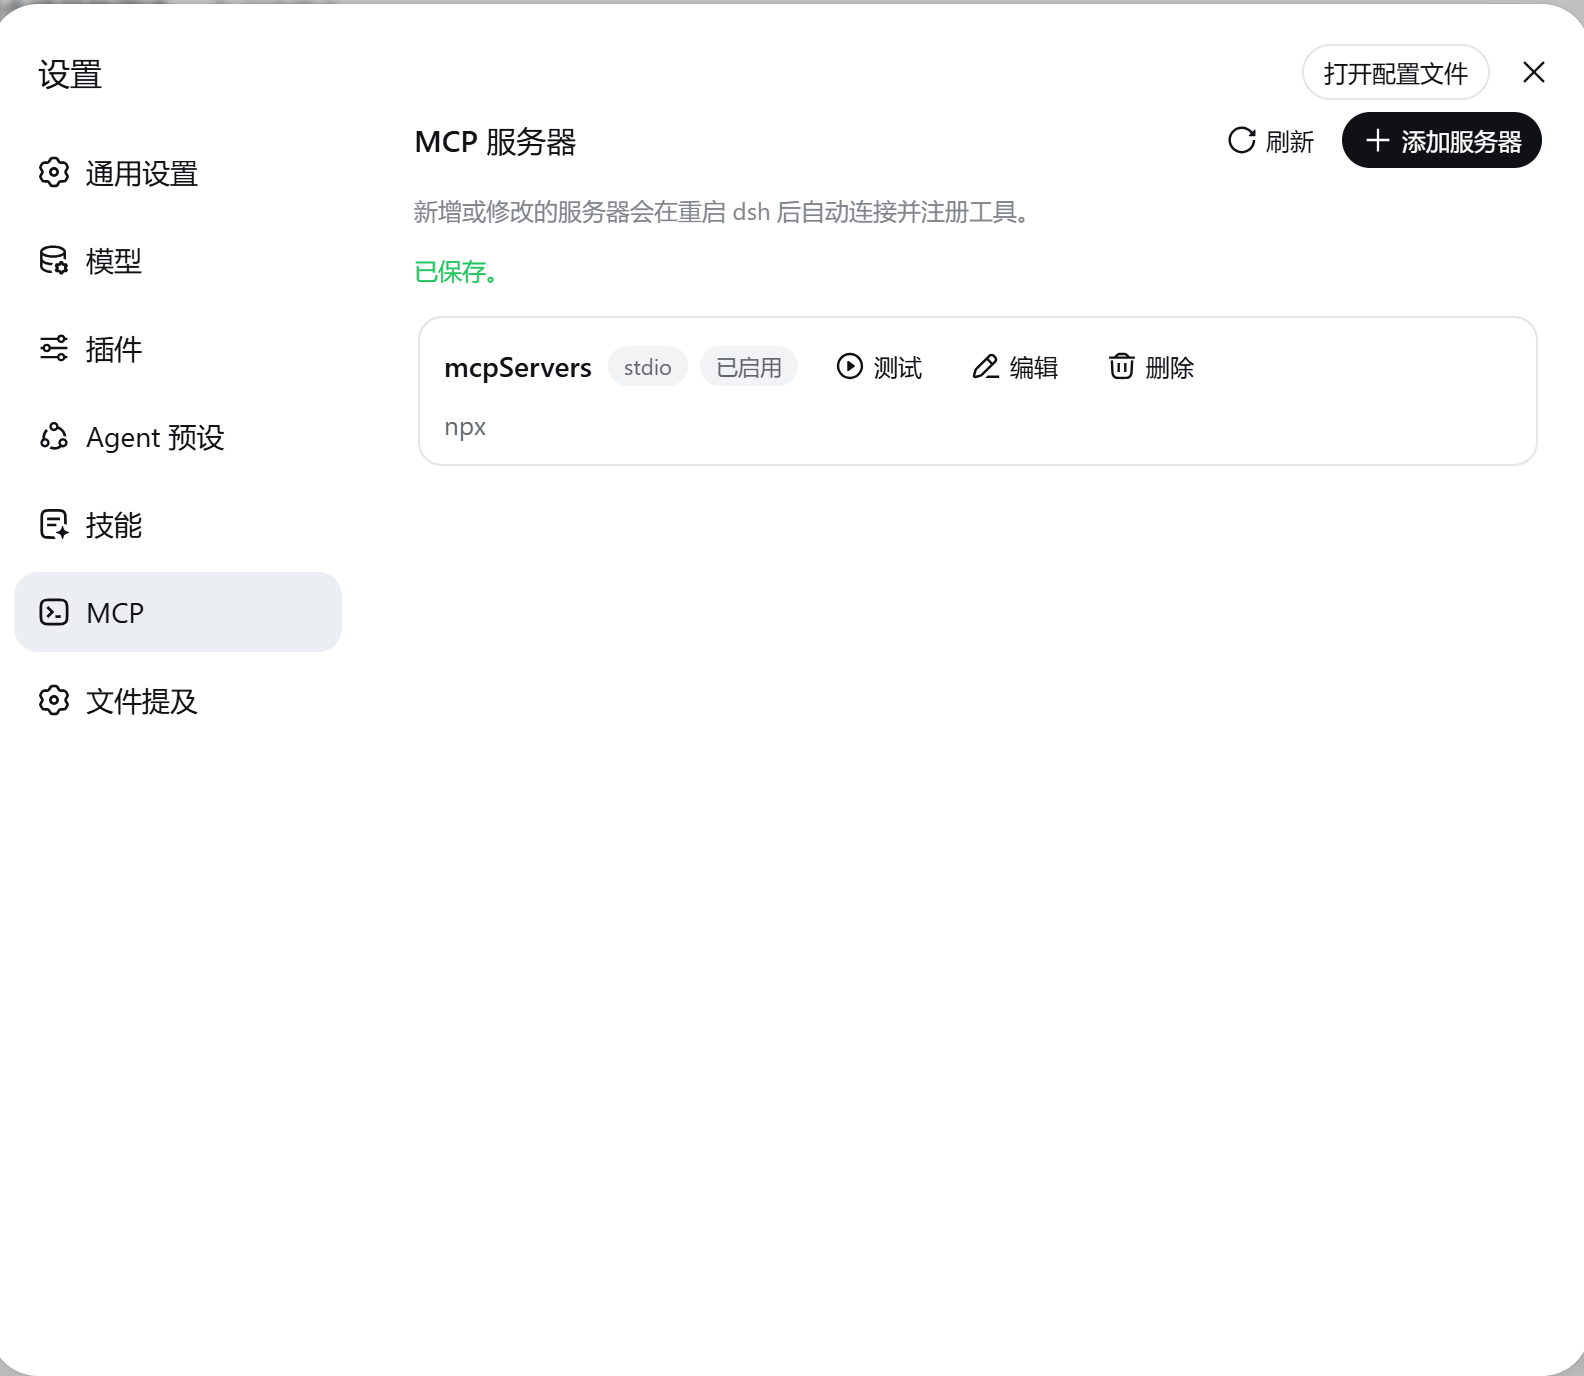
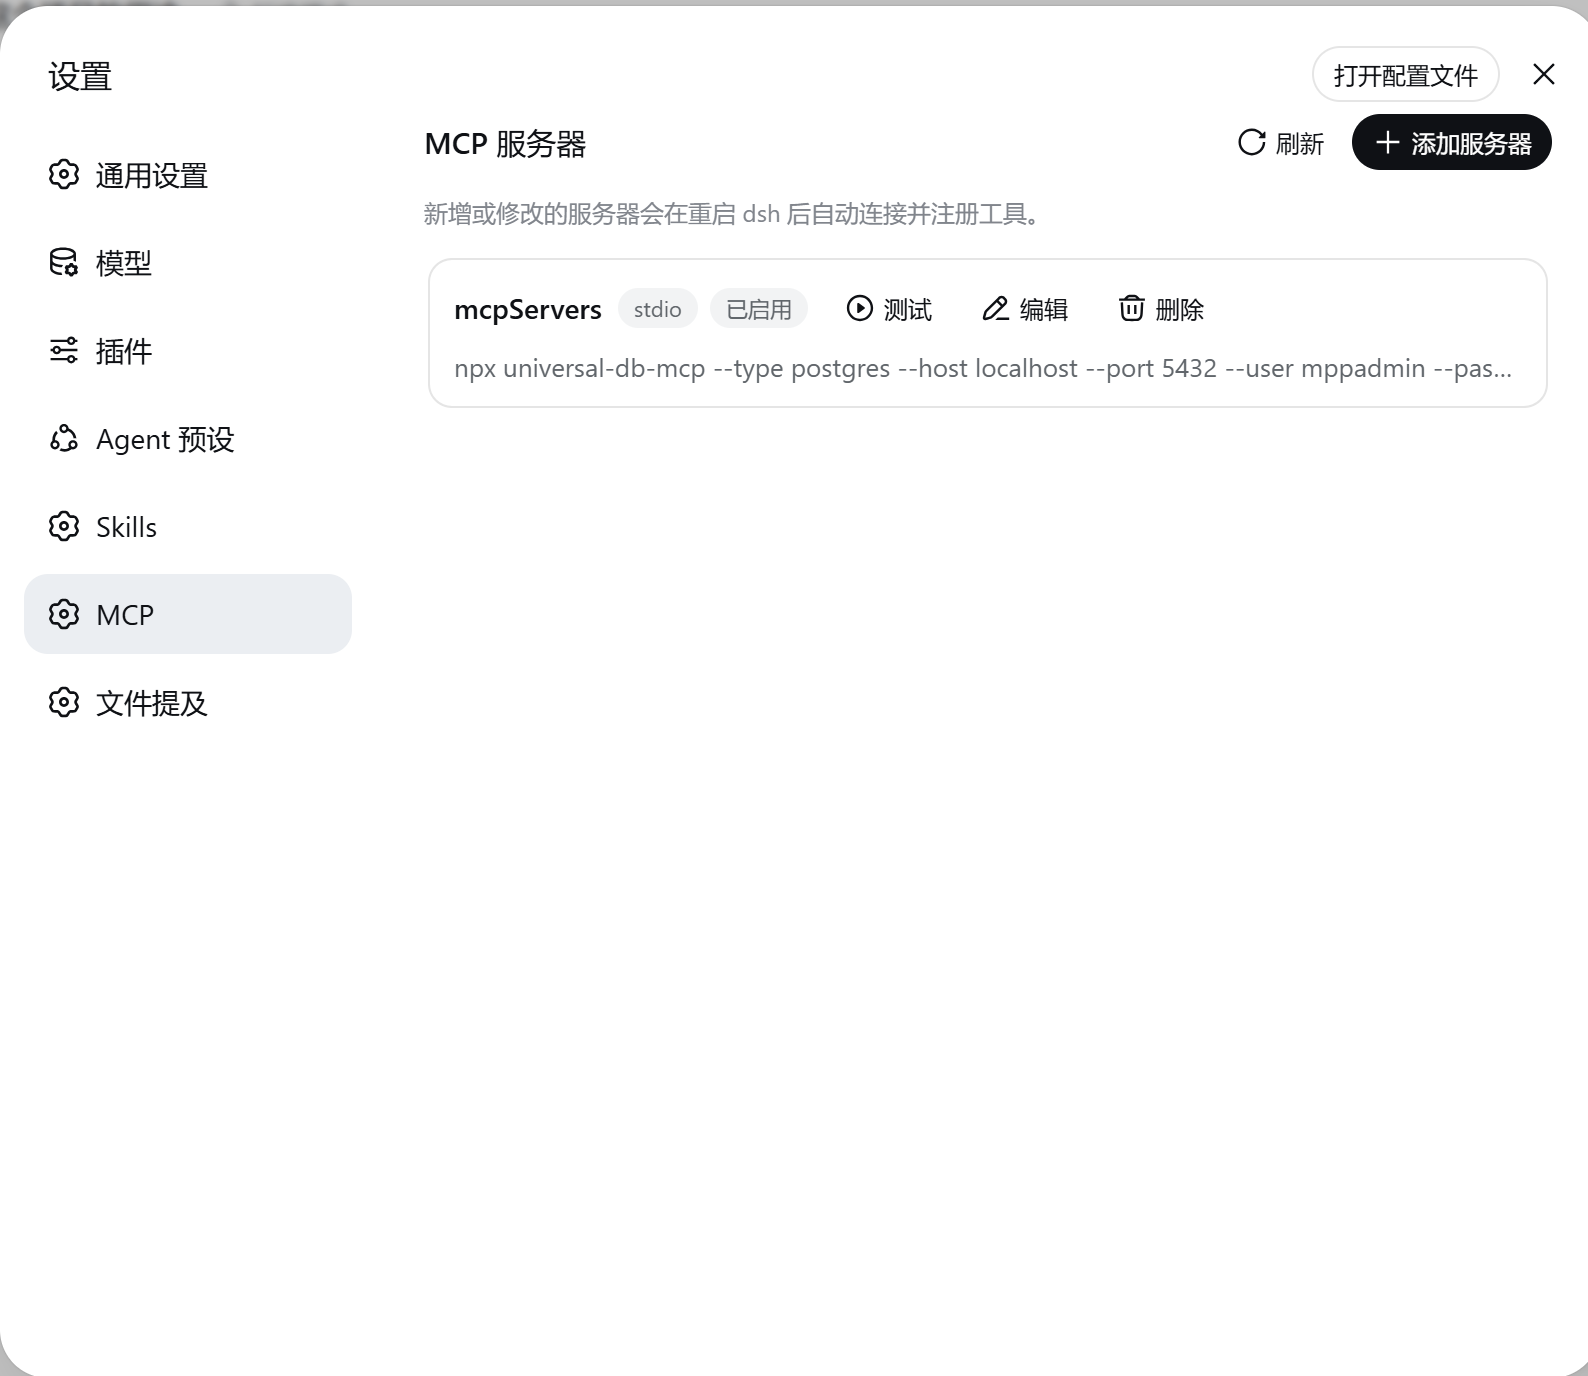
mcp

diff --git a/lib/client.js b/lib/client.js
@@ -131,6 +131,20 @@ window.__ModuleLoader__.load({
       return result
     }
 
+    /** Build the mcp.upsert server object from a form draft. */
+    function mcpDraftToServer(draft) {
+      return {
+        name: draft.name,
+        enabled: draft.enabled,
+        transport: draft.transport,
+        toolCallTimeoutMs: Number(draft.toolCallTimeoutMs) || 30000,
+        failOnStartupError: draft.failOnStartupError,
+        ...(draft.transport === 'stdio'
+          ? { command: draft.command, args: manageLines(draft.argsText), env: manageKeyValue(draft.envText), cwd: draft.cwd }
+          : { url: draft.url, headers: manageKeyValue(draft.headersText) }),
+      }
+    }
+
     /** Read a browser File as a base64 string (for zip upload). */
     function readFileAsBase64(file) {
       return new Promise((resolvePromise, reject) => {
@@ -325,6 +339,8 @@ window.__ModuleLoader__.load({
       var [busy, setBusy] = useManageState(false)
       var [testing, setTesting] = useManageState(null)
       var [draft, setDraft] = useManageState(null)
+      var [jsonMode, setJsonMode] = useManageState(false)
+      var [jsonText, setJsonText] = useManageState('')
 
       var load = useManageCallback(async () => {
         setStatus('loading')
@@ -371,6 +387,8 @@ window.__ModuleLoader__.load({
           failOnStartupError: base.failOnStartupError === true,
         })
         setEditing(server ?? null)
+        setJsonMode(false)
+        setJsonText('')
         setError(null)
         setNotice(null)
       }, [])
@@ -379,28 +397,37 @@ window.__ModuleLoader__.load({
         setDraft((previous) => (previous === null ? previous : { ...previous, [field]: value }))
       }, [])
 
+      var toggleJsonMode = useManageCallback(() => {
+        if (jsonMode) {
+          setJsonMode(false)
+        } else {
+          if (draft !== null) setJsonText(JSON.stringify(mcpDraftToServer(draft), null, 2))
+          setJsonMode(true)
+        }
+      }, [jsonMode, draft])
+
       var submit = useManageCallback(async () => {
         if (draft === null) return
         setBusy(true)
         setError(null)
         setNotice(null)
         try {
-          var payload = {
-            server: {
-              name: draft.name,
-              enabled: draft.enabled,
-              transport: draft.transport,
-              toolCallTimeoutMs: Number(draft.toolCallTimeoutMs) || 30000,
-              failOnStartupError: draft.failOnStartupError,
-              ...(draft.transport === 'stdio'
-                ? { command: draft.command, args: manageLines(draft.argsText), env: manageKeyValue(draft.envText), cwd: draft.cwd }
-                : { url: draft.url, headers: manageKeyValue(draft.headersText) }),
-            },
+          var server
+          if (jsonMode) {
+            try {
+              server = JSON.parse(jsonText)
+            } catch (parseError) {
+              throw new Error(t('mcp.form.jsonError').replace('{message}', parseError instanceof Error ? parseError.message : String(parseError)))
+            }
+          } else {
+            server = mcpDraftToServer(draft)
           }
-          var response = await mcpApi.upsert(payload)
+          var response = await mcpApi.upsert({ server })
           if (!response.result.ok) throw new Error(response.result.error.message)
           setEditing(null)
           setDraft(null)
+          setJsonMode(false)
+          setJsonText('')
           setNotice(t('mcp.saved'))
           await load()
         } catch (cause) {
@@ -408,7 +435,7 @@ window.__ModuleLoader__.load({
         } finally {
           setBusy(false)
         }
-      }, [draft, mcpApi, load, t])
+      }, [draft, jsonMode, jsonText, mcpApi, load, t])
 
       var remove = useManageCallback(async (name) => {
         if (!window.confirm(t('mcp.removeConfirm').replace('{name}', name))) return
@@ -488,6 +515,28 @@ window.__ModuleLoader__.load({
                 className: manageStyles.form,
                 children: [
                   react_jsx_runtime.jsx('div', { className: manageStyles.title, children: editing === null ? t('mcp.new') : t('mcp.edit') }),
+                  react_jsx_runtime.jsxs('label', {
+                    className: manageStyles.check,
+                    children: [
+                      react_jsx_runtime.jsx('input', {
+                        type: 'checkbox',
+                        checked: jsonMode,
+                        onChange: toggleJsonMode,
+                      }),
+                      t('mcp.form.jsonMode'),
+                    ],
+                  }),
+                  jsonMode
+                    ? [
+                        react_jsx_runtime.jsx('textarea', {
+                          className: manageStyles.textarea,
+                          value: jsonText,
+                          onChange: (event) => {
+                            setJsonText(event.target.value)
+                          },
+                        }),
+                      ]
+                    : [
                   react_jsx_runtime.jsx(ManageField, {
                     label: t('mcp.form.name'),
                     children: react_jsx_runtime.jsx('input', {
@@ -502,7 +551,7 @@ window.__ModuleLoader__.load({
                   }),
                   react_jsx_runtime.jsx(ManageField, {
                     label: t('mcp.form.transport'),
-                    children: react_jsx_runtime.jsx(
+                    children: react_jsx_runtime.jsxs(
                       'select',
                       {
                         className: manageStyles.input,
@@ -510,9 +559,11 @@ window.__ModuleLoader__.load({
                         onChange: (event) => {
                           setDraftField('transport', event.target.value)
                         },
+                        children: [
+                          react_jsx_runtime.jsx('option', { value: 'stdio', children: t('mcp.stdio') }),
+                          react_jsx_runtime.jsx('option', { value: 'streamable-http', children: t('mcp.streamable-http') }),
+                        ],
                       },
-                      react_jsx_runtime.jsx('option', { value: 'stdio', children: t('mcp.stdio') }),
-                      react_jsx_runtime.jsx('option', { value: 'streamable-http', children: t('mcp.streamable-http') }),
                     ),
                   }),
                   draft.transport === 'stdio'
@@ -629,13 +680,14 @@ window.__ModuleLoader__.load({
                       }),
                     ],
                   }),
+                  ],
                   react_jsx_runtime.jsxs('div', {
                     className: manageStyles.formRow,
                     children: [
                       react_jsx_runtime.jsx(_deepseek_ai_dsh_client_ui_primitives.Button, {
                         variant: 'primary',
                         size: 'sm',
-                        disabled: busy || draft.name.trim() === '' || (draft.transport === 'stdio' ? draft.command.trim() === '' : draft.url.trim() === ''),
+                        disabled: busy || (jsonMode ? jsonText.trim() === '' : draft.name.trim() === '' || (draft.transport === 'stdio' ? draft.command.trim() === '' : draft.url.trim() === '')),
                         onClick: () => {
                           submit()
                         },
@@ -781,6 +833,8 @@ window.__ModuleLoader__.load({
       'mcp.form.timeout': '单次调用超时（毫秒）',
       'mcp.form.enabled': '启用',
       'mcp.form.failOnStartupError': '启动失败时阻止 dsh 启动',
+      'mcp.form.jsonMode': 'JSON 模式',
+      'mcp.form.jsonError': 'JSON 解析失败：{message}',
       'mcp.form.add': '添加',
       'mcp.form.save': '保存',
       'mcp.cancel': '取消',
@@ -830,6 +884,8 @@ window.__ModuleLoader__.load({
       'mcp.form.timeout': 'Per-call timeout (ms)',
       'mcp.form.enabled': 'Enabled',
       'mcp.form.failOnStartupError': 'Block dsh startup when this server fails',
+      'mcp.form.jsonMode': 'JSON mode',
+      'mcp.form.jsonError': 'Invalid JSON: {message}',
       'mcp.form.add': 'Add',
       'mcp.form.save': 'Save',
       'mcp.cancel': 'Cancel',
